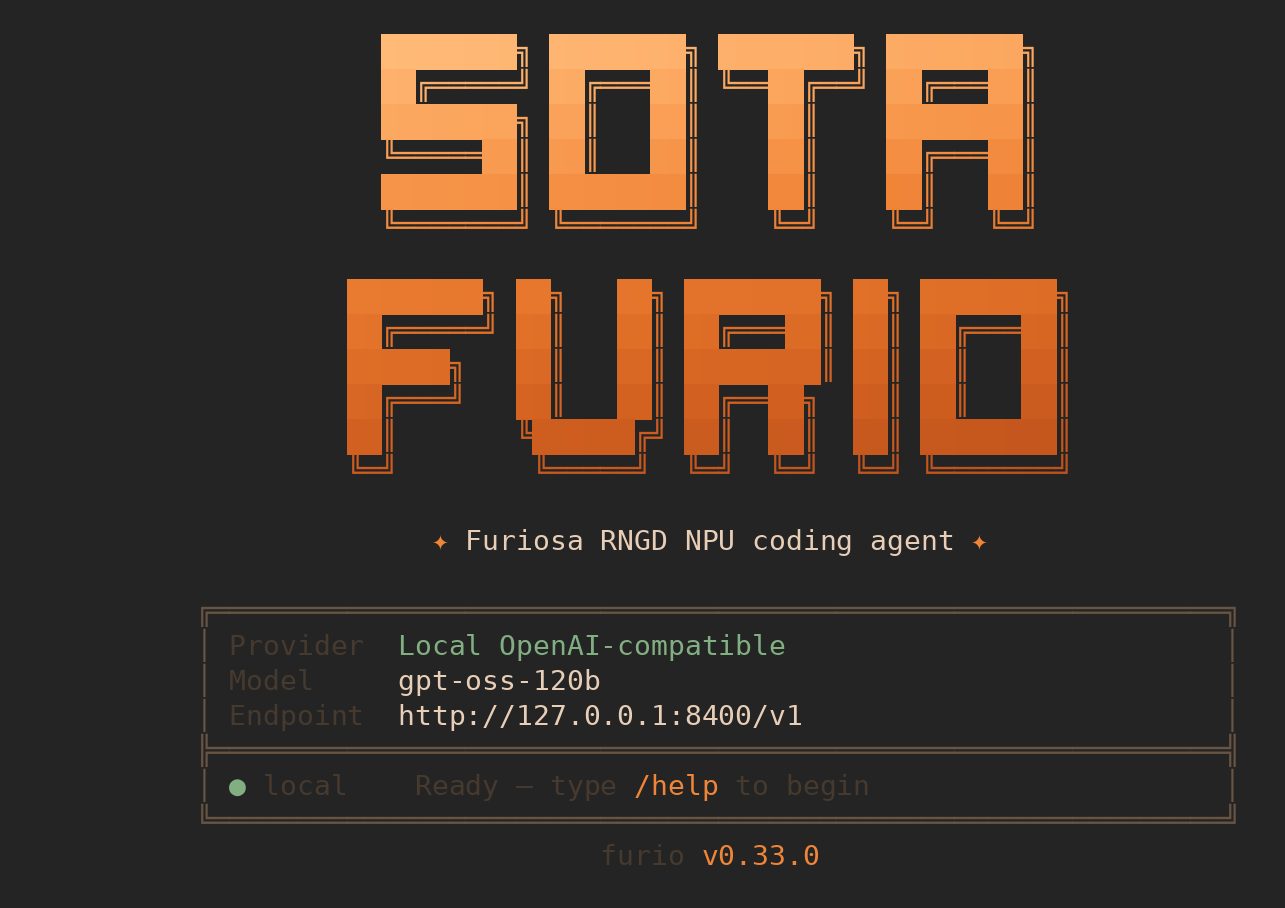
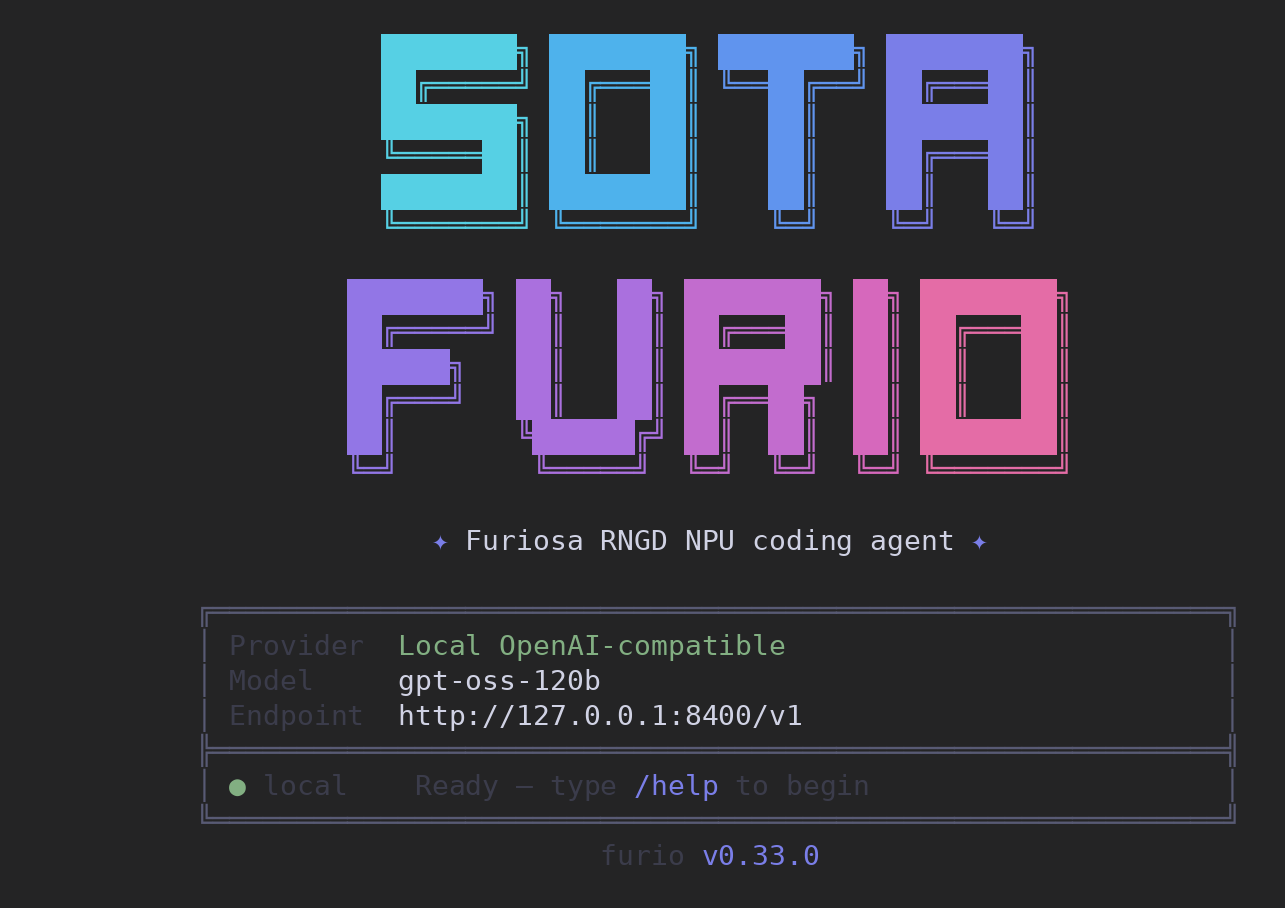
로고 색을 글자마다 다른 쿨톤 스펙트럼으로
주황 계열은 Claude 쪽 표식과 너무 닮았다. 아홉 글자(SOTA 4 + FURIO 5)가 청록에서
분홍까지 한 색씩 나눠 갖도록 바꿨다. 줄 단위 그라데이션 대신 글자 칸을 통째로 한 색으로
칠하고, 글자 폭이 제각각이라(FURIO 의 I 만 3칸) 칸 너비를 그림 옆에 데이터로 뒀다.
업스트림 팔레트 5종과 `paintLine` 은 건드리지 않았다 — `/logo` 로 언제든 되돌린다.

- openclaude-npu.patch: 24커밋으로 재생성
- furio.png: 새 색으로 다시 찍음
- 패치 설명 갱신

Claude-Session: https://claude.ai/code/session_01Awg9EDmFe6qrrwt2T4HiDJ

diff --git a/openclaude-npu/README.md b/openclaude-npu/README.md
@@ -9,9 +9,11 @@ furio 의 화면은 [openclaude](https://github.com/Twigpine/openclaude)(Claude 
 - 백그라운드 호출(요약·제목 생성)이 실행 중 바꾼 모델을 따라간다 — 안 그러면 켤 때 모델을
   다시 올리느라 카드가 왕복한다
 - 시작 화면과 환영 상자를 연구실 표식(SOTA / furio)으로 바꾼다
-- 로고 그라데이션을 세로 위주로 돌리고(`LOGO_GRADIENT_SWEEP`) 밝기 폭이 좁은 `sota` 팔레트를
-  기본으로 둔다 — 전에는 같은 줄의 첫 글자와 끝 글자가 팔레트 절반만큼 벌어져 알파벳마다
-  색이 튀었다. 업스트림 팔레트는 그대로라 `/logo` 로 되돌릴 수 있다
+- 로고를 글자 단위로 칠한다 — 아홉 글자(SOTA 4 + FURIO 5)가 청록에서 분홍까지 한 색씩
+  나눠 가진다(`sota` 팔레트, 기본값). 물려받은 방식은 한 줄 안에서 색이 팔레트의 절반만큼
+  움직여 같은 단어의 첫 글자와 끝 글자가 따로 놀았고, 색도 주황이라 Claude 쪽 표식과
+  닮아 있었다. 글자 폭이 제각각이라(FURIO 의 I 만 3칸) 칸 너비를 그림 옆에 데이터로 둔다.
+  업스트림 팔레트 5종은 그대로라 `/logo` 로 언제든 바꿀 수 있다
 
 기준: 업스트림 태그 `v0.33.0` (Twigpine/openclaude, 2026-10-15)
 
